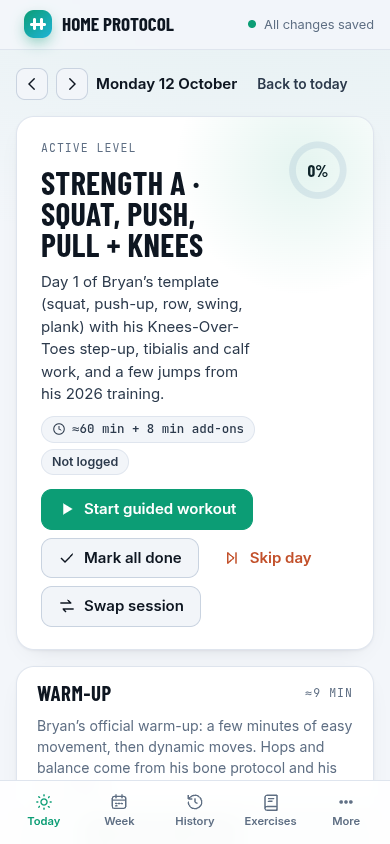
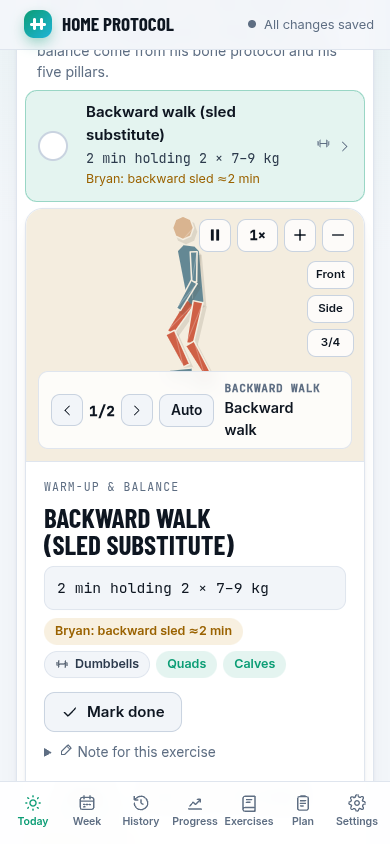
Keep mobile animations visible and show all seven navigation links

diff --git a/public/js/views/today.js b/public/js/views/today.js
@@ -28,6 +28,7 @@ export function render(el, params) {
   let panel = null;
   let showSkipped = false;
   let lastStatus = state.days[date] ? state.days[date].status : null;
+  const narrowView = window.matchMedia("(max-width: 1180px)");
   let panelMode = detailMode();
 
   const log = () => state.days[date] || null;
@@ -218,7 +219,7 @@ export function render(el, params) {
     return `<div class="banner skip"><span>${icon(r.icon, "lg")}</span><div class="grow"><b>Skipped: ${esc(r.name)}</b>${l.skip.note ? `<span>${esc(l.skip.note)}</span>` : ""}</div><div class="btn-row"><button type="button" class="btn sm" data-skip-edit>${icon("note", "sm")} Edit</button><button type="button" class="btn sm" data-unskip>${icon("undo", "sm")} Undo skip</button></div></div>`;
   }
 
-  function draw(mobileSheet = false) {
+  function draw() {
     if (!profile()) return;
     const ctx = context();
     const l = log();
@@ -251,8 +252,8 @@ export function render(el, params) {
     </div>`;
     if (panel) panel.dispose();
     panel = null;
-    if (selected) showPanel(selected, mobileSheet);
-    else autoselect(ctx);
+    if (selected) showPanel(selected);
+    else autoselect();
     const r = el.querySelector("[data-ring] .ring-wrap");
     if (r) r.classList.add("intro");
   }
@@ -260,19 +261,16 @@ export function render(el, params) {
   function onLook() {
     const mode = detailMode();
     if (mode === panelMode) return;
-    const mobileSheet = panelMode === "inline" && window.matchMedia("(max-width: 1180px)").matches;
     panelMode = mode;
-    draw(mobileSheet);
+    draw();
   }
 
-  function autoselect(ctx) {
-    const inline = detailMode() === "inline";
-    if (!inline && window.matchMedia("(max-width: 1180px)").matches) return;
+  function autoselect() {
     const rows = [...el.querySelectorAll(".item:not(.info)")];
     // While the animation style switcher is open, start on an exercise the styles apply to.
     const styled = animBarOpen() && rows.find((li) => hasAnimStyles((findItem(li.dataset.scope, li.dataset.id) || { item: {} }).item.ex));
     const first = styled || rows[0];
-    if (first) select(first.dataset.scope, first.dataset.id, false);
+    if (first) select(first.dataset.scope, first.dataset.id);
   }
 
   function findItem(scope, id) {
@@ -285,7 +283,7 @@ export function render(el, params) {
     return null;
   }
 
-  function select(scope, id, mobileSheet = true) {
+  function select(scope, id) {
     // Opened in place: a second click on the open exercise folds it away.
     if (detailMode() === "inline" && selected && selected.scope === scope && selected.id === id && el.querySelector(".inline-panel")) {
       closeInline();
@@ -295,7 +293,7 @@ export function render(el, params) {
     }
     selected = { scope, id };
     el.querySelectorAll(".item").forEach((li) => li.setAttribute("aria-selected", String(li.dataset.scope === scope && li.dataset.id === id)));
-    showPanel(selected, mobileSheet);
+    showPanel(selected);
   }
 
   function panelCtx(found) {
@@ -309,7 +307,7 @@ export function render(el, params) {
     if (host) host.remove();
   }
 
-  // The exercise opens right under its row (the Course theme), at any width.
+  // On narrow screens and in inline themes, the exercise opens under its row.
   function showInline(sel, found) {
     const li = el.querySelector(`.item[data-scope="${CSS.escape(sel.scope)}"][data-id="${CSS.escape(sel.id)}"]`);
     if (!li) return;
@@ -324,29 +322,10 @@ export function render(el, params) {
     panel.show(panelCtx(found));
   }
 
-  function showPanel(sel, mobileSheet) {
+  function showPanel(sel) {
     const found = findItem(sel.scope, sel.id);
     if (!found) return;
     if (detailMode() === "inline") return showInline(sel, found);
-    const narrow = window.matchMedia("(max-width: 1180px)").matches;
-    if (narrow) {
-      if (!mobileSheet) return;
-      const host = document.createElement("div");
-      let sheetPanel;
-      openDialog({
-        title: EXERCISES[found.item.ex].name,
-        content: host,
-        sheet: true,
-        hideTitle: true,
-        onClose: () => {
-          sheetPanel && sheetPanel.dispose();
-          refreshStatus();
-        },
-      });
-      sheetPanel = createExercisePanel(host);
-      sheetPanel.show(panelCtx(found));
-      return;
-    }
     const host = el.querySelector("[data-panel-host]");
     if (!host) return;
     if (!panel) panel = createExercisePanel(host);
@@ -429,7 +408,7 @@ export function render(el, params) {
       const found = findItem(li.dataset.scope, li.dataset.id);
       if (found) editItem(date, li.dataset.scope, found.item, (l) => (l.done = tick.checked));
       refreshStatus();
-      if (panel && selected && selected.id === li.dataset.id) showPanel(selected, false);
+      if (panel && selected && selected.id === li.dataset.id) showPanel(selected);
       return;
     }
     const periodic = t.closest("[data-periodic]");
@@ -444,7 +423,7 @@ export function render(el, params) {
     }
     const li = t.closest(".item");
     if (li && !li.classList.contains("info") && !t.closest("input")) {
-      select(li.dataset.scope, li.dataset.id, true);
+      select(li.dataset.scope, li.dataset.id);
       return;
     }
     const b = t.closest("button");
@@ -463,7 +442,7 @@ export function render(el, params) {
         }
       });
       refreshStatus();
-      if (panel && selected) showPanel(selected, false);
+      if (panel && selected) showPanel(selected);
     } else if (b.hasAttribute("data-skip") || b.hasAttribute("data-skip-edit")) openSkip();
     else if (b.hasAttribute("data-unskip")) {
       editDay(date, (d) => {
@@ -548,7 +527,7 @@ export function render(el, params) {
   el.addEventListener("keydown", (e) => {
     if ((e.key === "Enter" || e.key === " ") && e.target.matches(".item[tabindex]")) {
       e.preventDefault();
-      select(e.target.dataset.scope, e.target.dataset.id, true);
+      select(e.target.dataset.scope, e.target.dataset.id);
     }
   });
 
@@ -591,6 +570,7 @@ export function render(el, params) {
     if (evt.type === "all" || evt.type === "profile") draw();
   });
   window.addEventListener("hp:look", onLook);
+  narrowView.addEventListener("change", onLook);
   draw();
 
   // The detail panel is sticky and can be taller than the window: let it scroll first, then the page.
@@ -611,6 +591,7 @@ export function render(el, params) {
     destroy() {
       unsub();
       window.removeEventListener("hp:look", onLook);
+      narrowView.removeEventListener("change", onLook);
       window.removeEventListener("wheel", onWheel);
       if (panel) panel.dispose();
       delete document.documentElement.dataset.venue;

diff --git a/public/css/app.css b/public/css/app.css
@@ -188,11 +188,14 @@ button, input, select, textarea { font: inherit; color: inherit; }
     border-bottom: 1px solid var(--line);
   }
   .tabbar {
-    display: grid; grid-template-columns: repeat(5, minmax(0, 1fr)); position: fixed; left: 0; right: 0; bottom: 0; z-index: 30;
+    display: grid; grid-template-columns: repeat(7, minmax(0, 1fr)); position: fixed; left: 0; right: 0; bottom: 0; z-index: 30;
     padding: 6px 6px max(8px, env(safe-area-inset-bottom));
     background: color-mix(in srgb, var(--sidebar) 92%, transparent); backdrop-filter: blur(12px); border-top: 1px solid var(--line);
   }
-  .tabbar a { display: grid; justify-items: center; gap: 2px; padding: 6px 2px; color: var(--muted); text-decoration: none; font-size: 0.7rem; font-weight: 600; border-radius: 10px; }
+  .tabbar a { display: grid; min-width: 0; justify-items: center; gap: 2px; padding: 6px 2px; color: var(--muted); text-decoration: none; font-size: 0.7rem; font-weight: 600; border-radius: 10px; }
+  :root[data-skin] .tabbar a { font-size: clamp(0.6rem, 2.7vw, 0.7rem); }
+  .tabbar a .icon { max-width: 100%; }
+  .tabbar a > span { white-space: nowrap; }
   .tabbar a[aria-current="page"] { color: var(--accent); }
   .main { padding: 18px 16px calc(96px + env(safe-area-inset-bottom)); }
 }
@@ -305,6 +308,9 @@ input[type="range"] { width: 100%; accent-color: var(--accent); }
 .today-layout > .detail-col { grid-area: detail; }
 @media (max-width: 1180px) { .today-layout { grid-template-areas: "head" "list"; } }
 .inline-panel { list-style: none; margin: 6px 0 12px; }
+@media (max-width: 1180px) {
+  :root[data-skin] .inline-panel .stage { height: auto; min-height: 0; max-height: 320px; aspect-ratio: 4 / 3; position: relative; top: auto; }
+}
 
 .day-nav { display: flex; align-items: center; gap: 8px; }
 .day-nav .date { font-weight: 650; min-width: 0; }

diff --git a/public/js/main.js b/public/js/main.js
@@ -34,8 +34,10 @@ const TABS = [
   ["today", "Today", "today"],
   ["week", "Week", "week"],
   ["history", "History", "history"],
+  ["progress", "Progress", "progress"],
   ["library", "Exercises", "library"],
-  ["settings", "More", "dots"],
+  ["plan", "Plan", "plan"],
+  ["settings", "Settings", "settings"],
 ];
 
 const viewEl = document.getElementById("view");
@@ -47,9 +49,8 @@ function drawNav(route) {
   document.getElementById("nav").innerHTML = NAV.map(
     ([id, label, ic]) => `<a href="#/${id}" ${active === id ? 'aria-current="page"' : ""}>${icon(ic)}<span>${esc(label)}</span></a>`
   ).join("");
-  const moreActive = ["settings", "plan", "progress"].includes(active);
   document.getElementById("tabbar").innerHTML = TABS.map(
-    ([id, label, ic]) => `<a href="#/${id}" ${active === id || (id === "settings" && moreActive) ? 'aria-current="page"' : ""}>${icon(ic)}<span>${esc(label)}</span></a>`
+    ([id, label, ic]) => `<a href="#/${id}" ${active === id ? 'aria-current="page"' : ""}>${icon(ic)}<span>${esc(label)}</span></a>`
   ).join("");
   const setup = route === "setup";
   document.querySelector(".sidebar").hidden = setup;

diff --git a/public/js/themes.js b/public/js/themes.js
@@ -100,7 +100,7 @@ export function currentSkin() {
 
 // How Today shows the selected exercise: beside the list, or opened in place.
 export function detailMode() {
-  return ["course", "journal"].includes(currentSkin().id) ? "inline" : "side";
+  return window.matchMedia("(max-width: 1180px)").matches || ["course", "journal"].includes(currentSkin().id) ? "inline" : "side";
 }
 
 const darkQuery = window.matchMedia ? window.matchMedia("(prefers-color-scheme: dark)") : null;

diff --git a/docs/THEMES.md b/docs/THEMES.md
@@ -11,7 +11,7 @@ The app ships with nine looks: the Original one and eight themes that each chang
   - `data-scheme`: the resolved `light` or `dark`, following the system when the mode is `system`.
   Today also sets `data-venue` (`strength`, `intervals`, `endurance` or `rest`) for the day on screen, and the shell sets `data-route` to the current page.
 - **Where the looks are.** `css/app.css` is the Original look and the shared structure. `css/themes.css` has one section per theme, each starting with a comment that says which design guide it follows and how. A theme section sets the design tokens (`--bg`, `--surface`, `--ink`, `--accent`, fonts, radii…) for light, and again under `[data-scheme="dark"]`, then restyles the shell and the pages.
-- **Layout.** Above 900px each theme decides where the navigation goes (`.sidebar` becomes a top bar, a right-hand list, an icon rail…). Phones keep the top bar and bottom tab bar, restyled. Today is split into three regions, `.day-head`, `.day-list` and `.detail-col`, which a theme places with `grid-template-areas` on `.today-layout`. Course and Journal also change behaviour: `detailMode()` in `themes.js` returns `inline`, and Today then opens an exercise under its row instead of in the side panel.
+- **Layout.** Above 900px each theme decides where the navigation goes (`.sidebar` becomes a top bar, a right-hand list, an icon rail…). Phones keep the top bar and bottom tab bar, restyled. Today is split into three regions, `.day-head`, `.day-list` and `.detail-col`, which a theme places with `grid-template-areas` on `.today-layout`. At widths up to 1180px, every theme opens the first exercise inline automatically. Course and Journal also use inline details on desktop. `detailMode()` in `themes.js` selects the arrangement, and Today follows breakpoint changes while keeping the selected exercise.
 - **Kinds.** Blocks on Today carry `data-kind` (`warm`, `power`, `strength`, `core`, `cardio`, `stretch`) and week cards carry the session kind, both from `themes.js`, so a theme can colour them by meaning.
 - **The 3D scene.** `anim/stage.js` reads four optional custom properties from `<html>`: `--stage-floor`, `--stage-grid`, `--stage-hl` (highlighted muscles) and `--stage-body` (the figure), as `#rrggbb` hex. Stages repaint when the theme or the system colour scheme changes. The exercise-library thumbnails are cached per theme and mode.
 - **Live switcher.** `components/skin-bar.js` is the floating bar opened by *Try themes live* in Settings. It lives outside the views, so it survives navigation, and remembers in `sessionStorage` that it is open. While open, `<html>` has the class `skinbar-on` and `--skinbar-space` reserves a strip at the top; sticky and fixed elements use it in their `top`, so give a new sticky offset `calc(… + var(--skinbar-space))`.

diff --git a/README.md b/README.md
@@ -4,6 +4,8 @@ A local web app that plans and tracks a six-day home workout built from **Bryan 
 
 - **What to do each day**, block by block, with workouts set by your training level (New to training, Returning, Active, Well trained). Feel ready for more, or need it easier? Switch level any time.
 - **A 3D animation for every exercise** (62 of them), plus Bryan's own video at the right minute and demo videos you can switch between.
+- **Animations on phones and tablets**: Today opens the first exercise inline automatically. Tap another exercise to switch; resizing keeps the selected demonstration visible.
+- **Mobile navigation** keeps all seven pages in the bottom bar, including Plan, Progress and Settings.
 - **Seventeen animation styles**: choose how the exercise demonstrations look, from a realistic athlete to a doodle or a friendly monster.
 - **Tracking**: sets × reps × weight, holds, cardio minutes and heart rate, interval rounds, notes per exercise and per day, effort and energy, extra activity (desk treadmill, walks…), body weight.
 - **Auto-save**: there is no Save button. Everything is written to your own computer as you type.
@@ -31,6 +33,8 @@ A local web app that plans and tracks a six-day home workout built from **Bryan 
 <img src="docs/screenshots/mobile-today.png" width="24%" alt="Today on a phone">
 <img src="docs/screenshots/mobile-exercise.png" width="24%" alt="An exercise on a phone">
 </p>
+
+![Mobile bottom navigation with all seven pages](docs/screenshots/mobile-navigation.png)
 
 > Unofficial and not affiliated with or endorsed by Bryan Johnson or Blueprint. It's a training plan, not medical advice. If you have been inactive for a while, are over 50 or have a heart condition, check with a doctor before hard intervals.
 

diff --git a/CHANGELOG.md b/CHANGELOG.md
@@ -1,5 +1,12 @@
 # Changelog
 
+## [1.13.1] - 2026-10-16
+
+### Fixed
+- Today automatically shows the first exercise animation inline on phones and tablets in every theme.
+- The selected animation stays visible when resizing between desktop and mobile layouts.
+- Mobile bottom navigation includes all seven pages, with direct Plan and Settings links.
+
 ## [1.13.0] - 2026-10-16
 
 ### Added
